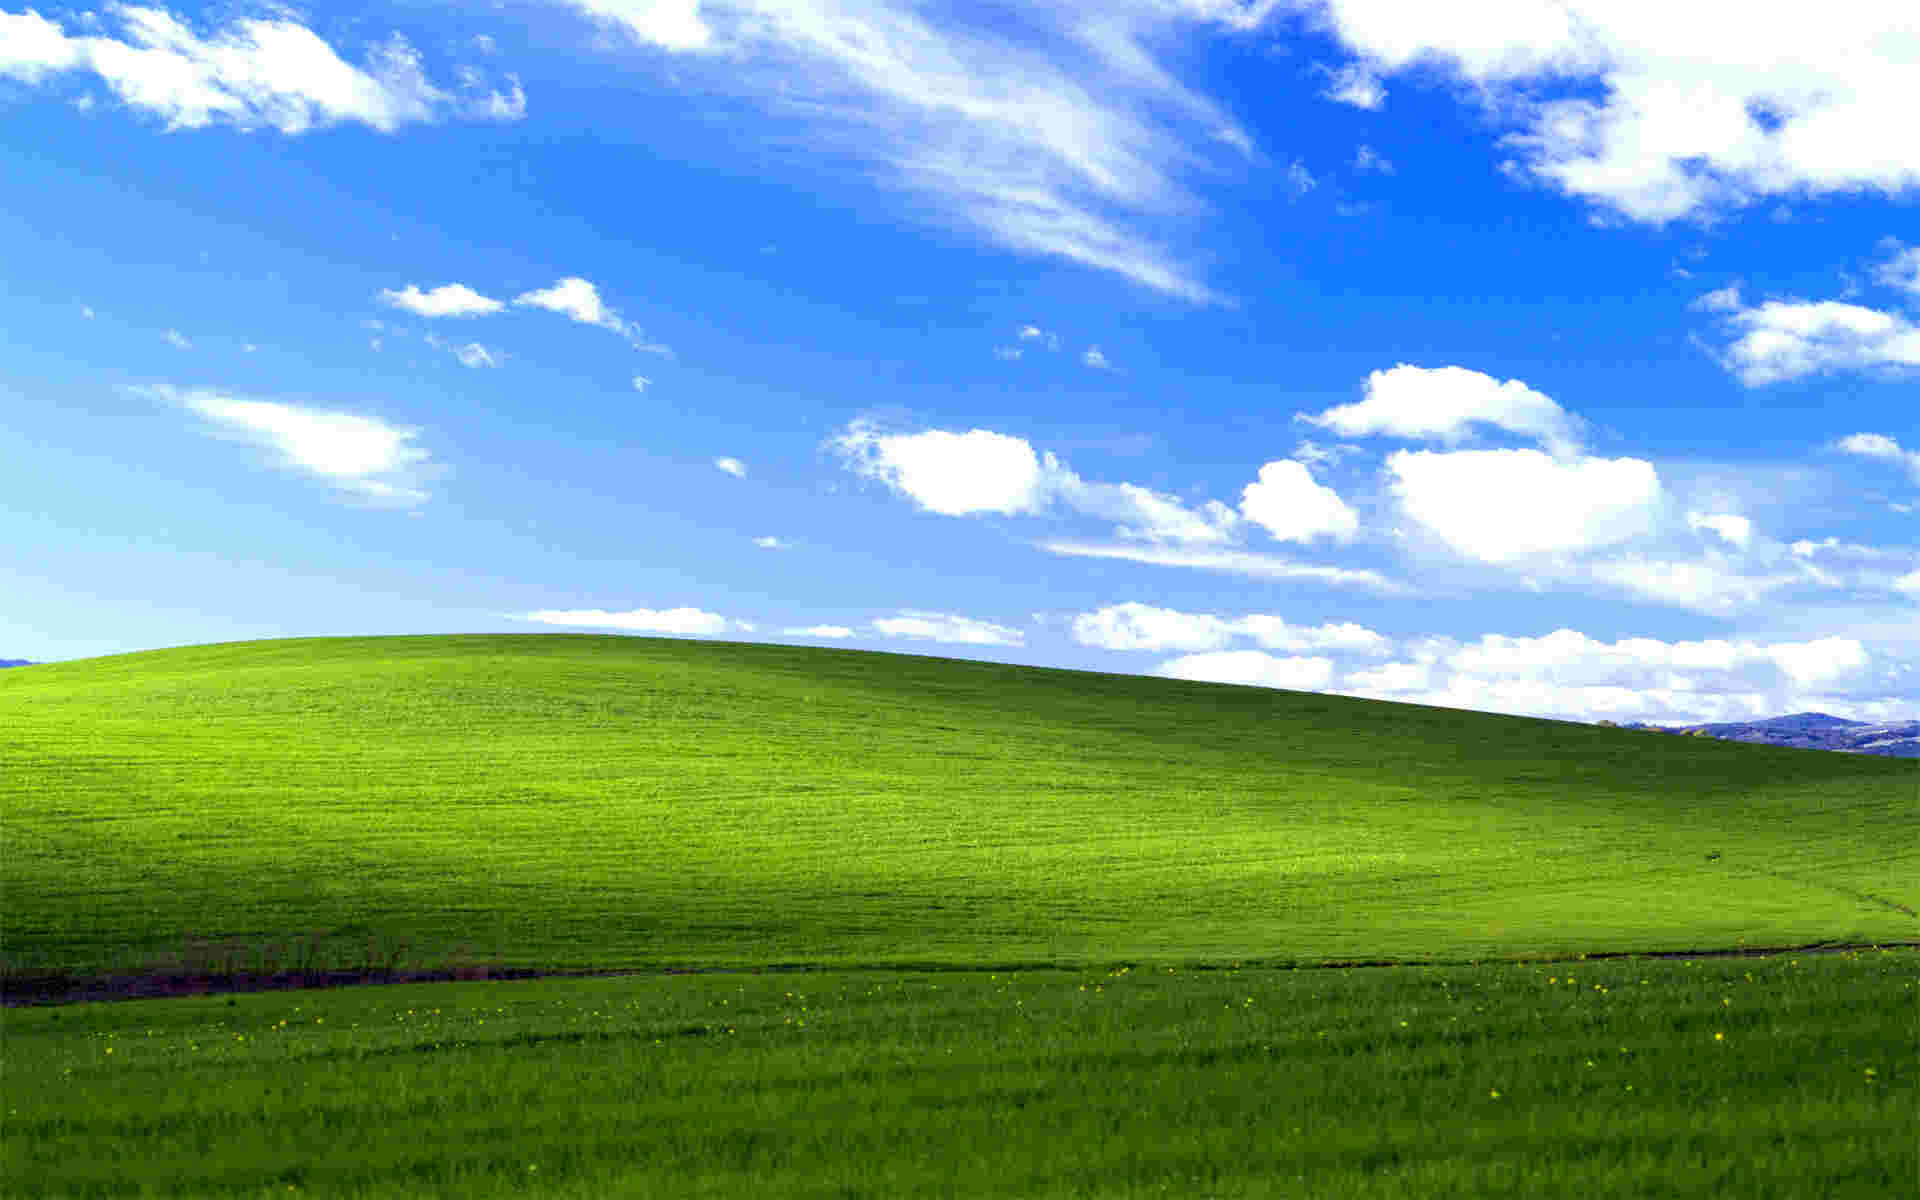
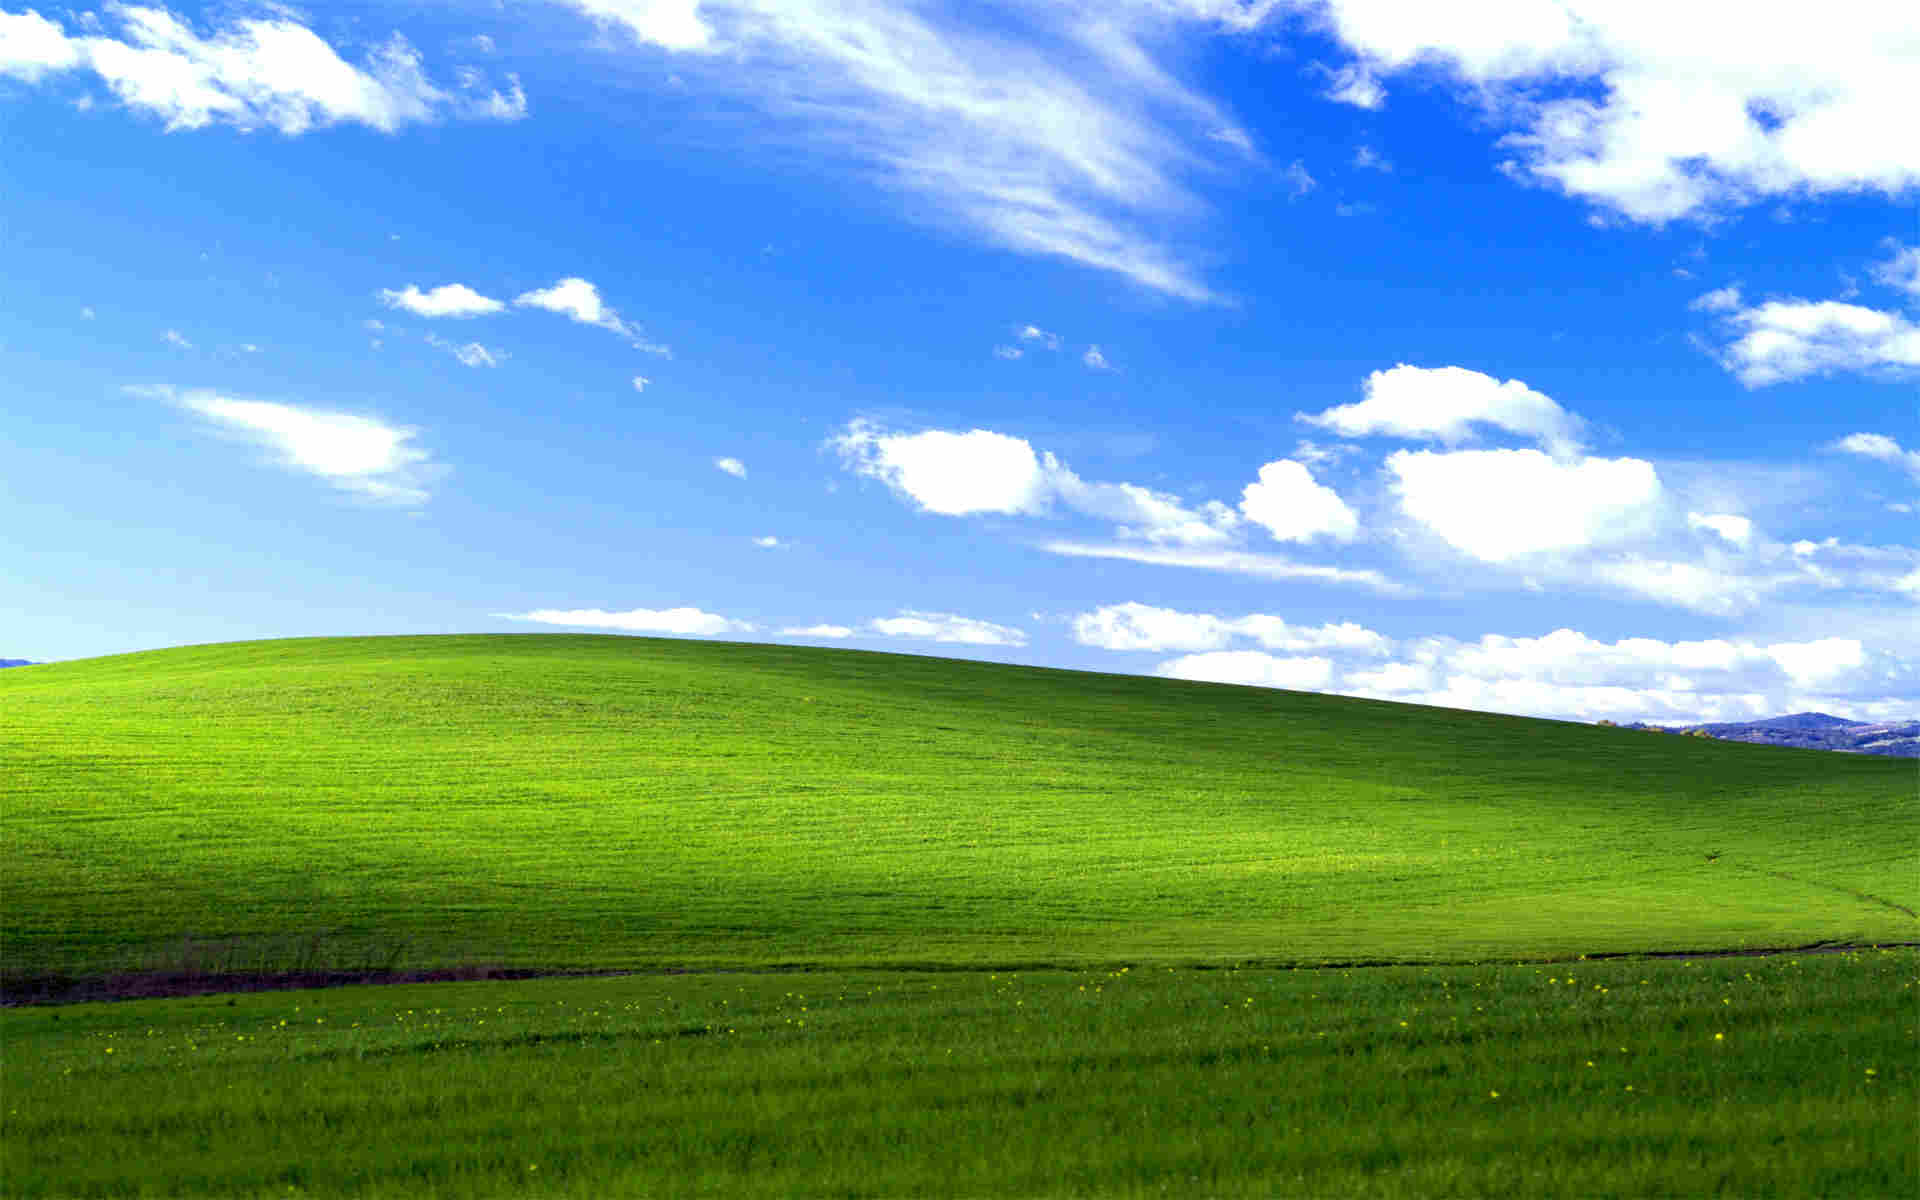
bg fix

diff --git a/static/css/global_styles.css b/static/css/global_styles.css
@@ -1,5 +1,4 @@
 
-
 html, body, div, span, applet, object, iframe,
 h1, h2, h3, h4, h5, h6, p, blockquote,
 a, abbr, acronym, address, big, cite, code,
@@ -20,11 +19,13 @@ time, mark, audio, video {
     font-size: 1em;
     vertical-align: baseline;
 }
+
 /* HTML5 display-role reset for older browsers */
 article, aside, details, figcaption, figure,
 footer, header, hgroup, menu, nav, section {
     display: block;
 }
+
 body {
     line-height: 1;
 }
@@ -32,11 +33,13 @@ body {
 blockquote, q {
     quotes: none;
 }
+
 blockquote:before, blockquote:after,
 q:before, q:after {
     content: '';
     content: none;
 }
+
 table {
     border-collapse: collapse;
     border-spacing: 0;
@@ -120,7 +123,7 @@ em {
     font-style: italic;
 }
 
-@media(max-width: 800px) {
+@media (max-width: 800px) {
     body {
         width: 100%;
         font-size: 1.2em;
@@ -134,7 +137,7 @@ em {
     }
 
     nav > a {
-      width: 100%;
+        width: 100%;
     }
 
     header > * {
@@ -146,10 +149,11 @@ em {
     }
 }
 
-@media(min-width: 800px) {
+@media (min-width: 800px) {
     :root {
         padding: 1em;
     }
+
     body {
         box-shadow: 0 0 50px #222222;
     }
@@ -188,3 +192,13 @@ progi {
     padding: 0 0.5em;
 }
 
+.bg {
+    z-index: -2;
+    position: fixed;
+    top: 0;
+    left: 0;
+    width: 100%;
+    height: 100%;
+    filter: blur(3px);
+    transition: opacity 500ms;
+}

diff --git a/static/js/constexpr/renderer.js b/static/js/constexpr/renderer.js
@@ -55,8 +55,8 @@ function render_base_page() {
 }
 
 function setup_bg() {
-  insertFirst(document.body, make_element('<div style="background: #00000044;z-index: -1; position: fixed; top: 0; left: 0; bottom: 0; right: 0; "></div>'))
-  insertFirst(document.body, make_element('<img id="bg" src="/static/img/bg.jpg" style="z-index: -2; position: fixed; top: 0; left: 0; width: 100%; height: 100%; filter: blur(10px); transition: opacity 500ms;" />'))
+  insertFirst(document.body, make_element('<div style="background: #000000cc;z-index: -1; position: fixed; top: 0; left: 0; bottom: 0; right: 0; "></div>'))
+  insertFirst(document.body, make_element('<img class="bg" id="main_bg" src="/static/img/bg.jpg" />'))
 }
 
 function syntax_highlight() {

diff --git a/posts/intellij_logos.html b/posts/intellij_logos.html
@@ -21,7 +21,7 @@
 <script constexpr src="/static/js/constexpr/renderer.js"></script>
 
 <script>
-  const orig_bg = document.querySelector('#bg')
+  const orig_bg = document.querySelector('#main_bg')
   function initHover() {
       const logos = document.querySelectorAll('#logos img')
       for (let i=0; i<logos.length; i++) {
